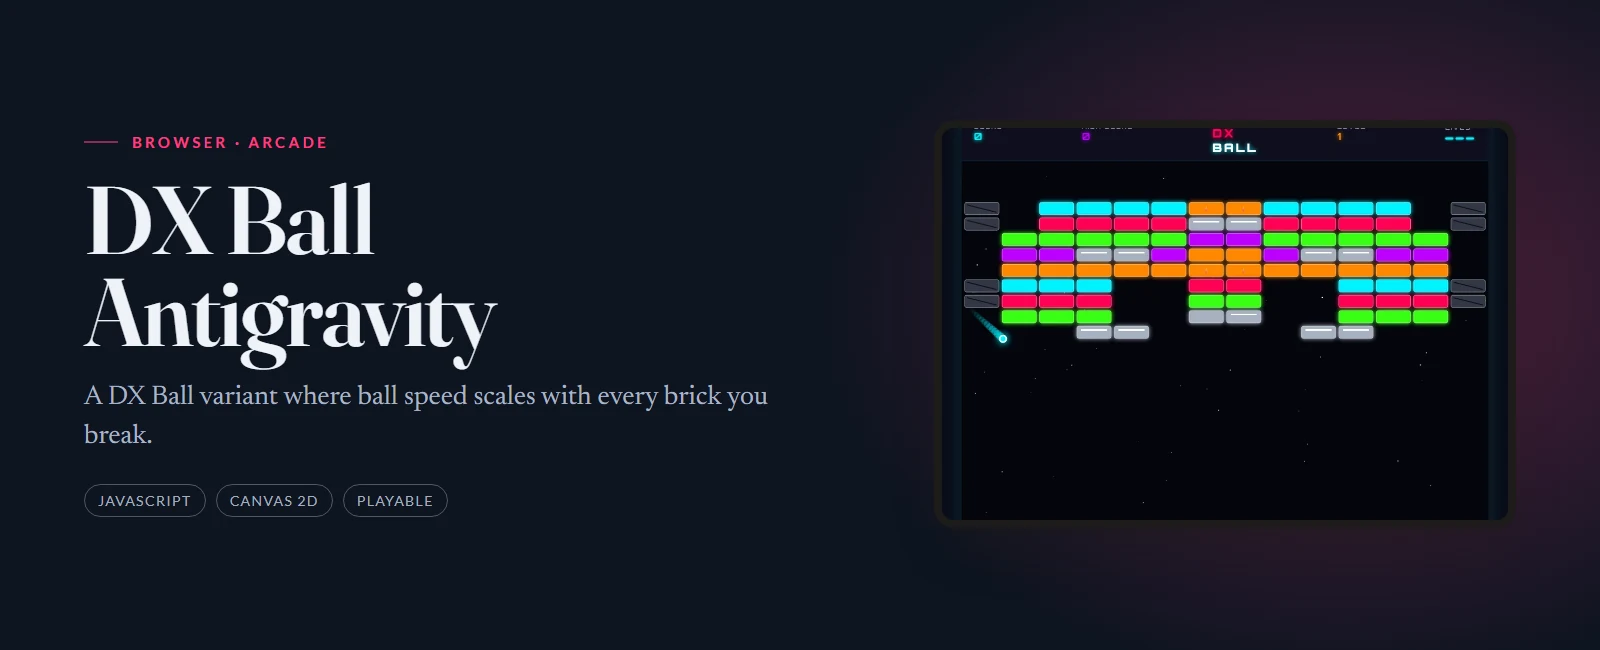
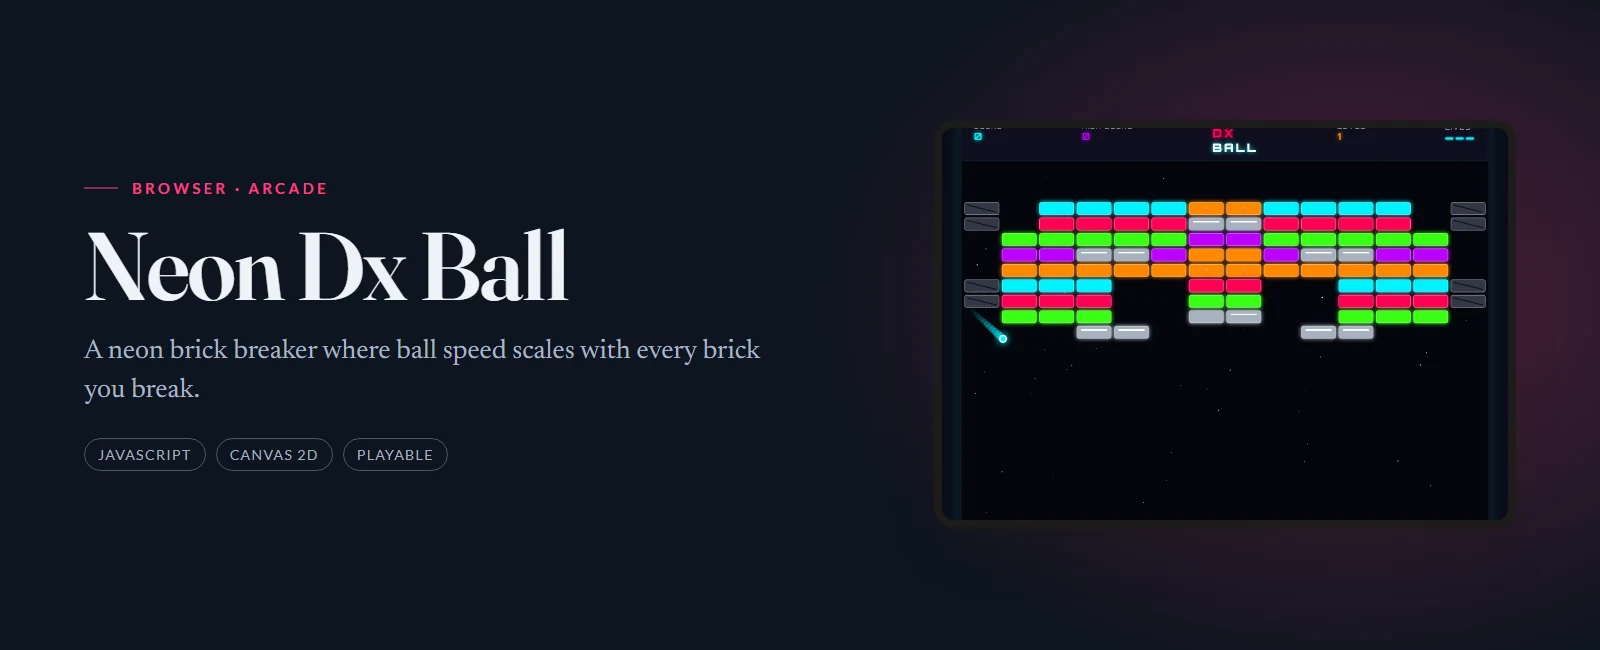
work: rename DX Ball to Neon Dx Ball, add Chorus and WattScope
Renamed DX Ball Antigravity to Neon Dx Ball everywhere including the baked cover art. Captured the real Chorus and WattScope desktop windows on this PC via PrintWindow and wired both into the covers, cards and galleries.

diff --git a/index.html b/index.html
@@ -231,9 +231,9 @@
 
   <a class="card-link" href="project.html?p=dx-ball-antigravity">
               <article class="card">
-                <div class="card-art" style="--tint:#ff3d81"><img src="img/dx-ball-antigravity/card.webp" alt="DX Ball Antigravity — mid-game" loading="lazy" /></div>
-                <h3>DX Ball Antigravity</h3>
-                <p class="card-desc">DX Ball variant with dynamic ball-speed scaling.</p>
+                <div class="card-art" style="--tint:#ff3d81"><img src="img/dx-ball-antigravity/card.webp" alt="Neon Dx Ball — mid-game" loading="lazy" /></div>
+                <h3>Neon Dx Ball</h3>
+                <p class="card-desc">Neon brick breaker with dynamic ball-speed scaling.</p>
                 <div class="meta"><span>Game</span><svg class="growth"><use href="#i-sprout"/></svg><span>2025</span></div>
               </article>
             </a>
@@ -259,7 +259,7 @@
 
   <a class="card-link" href="project.html?p=chorus">
               <article class="card">
-                <div class="card-art" style="--tint:#c98a2e"><span>CH</span></div>
+                <div class="card-art" style="--tint:#8b7cf6"><img src="img/chorus/card.webp" alt="Chorus" loading="lazy" /></div>
                 <h3>Chorus</h3>
                 <p class="card-desc">Pools RAM and VRAM across machines on a LAN to run one large model.</p>
                 <div class="meta"><span>AI</span><svg class="growth"><use href="#i-sprout"/></svg><span>2026</span></div>
@@ -295,7 +295,7 @@
 
   <a class="card-link" href="project.html?p=wattscope">
               <article class="card">
-                <div class="card-art" style="--tint:#c98a2e"><span>WS</span></div>
+                <div class="card-art" style="--tint:#2563eb"><img src="img/wattscope/card.webp" alt="Wattscope" loading="lazy" /></div>
                 <h3>WattScope</h3>
                 <p class="card-desc">Power-supply wattage calculator for PC builds.</p>
                 <div class="meta"><span>Desktop</span><svg class="growth"><use href="#i-sprout"/></svg><span>2025</span></div>

diff --git a/tools/art.html b/tools/art.html
@@ -222,8 +222,8 @@ const DATA = [
     card: 'img/neon-breaker/01-gameplay.webp' },
 
   { slug: 'dx-ball-antigravity', accent: '#ff3d81', ink: '#ff3d81', dark: true, frame: 'window',
-    kicker: 'Browser · Arcade', title: 'DX Ball<br>Antigravity',
-    sub: 'A DX Ball variant where ball speed scales with every brick you break.',
+    kicker: 'Browser · Arcade', title: 'Neon Dx Ball',
+    sub: 'A neon brick breaker where ball speed scales with every brick you break.',
     meta: ['JavaScript', 'Canvas 2D', 'Playable'],
     front: 'img/dx-ball-antigravity/01-gameplay.webp', back: null,
     card: 'img/dx-ball-antigravity/01-gameplay.webp' },
@@ -234,6 +234,20 @@ const DATA = [
     meta: ['HTML', 'Canvas 2D', 'Playable'],
     front: 'img/flappy-bird/01-gameplay.webp', back: null,
     card: 'img/flappy-bird/01-gameplay.webp' },
+
+  { slug: 'chorus', accent: '#8b7cf6', ink: '#8b7cf6', dark: true, frame: 'window',
+    kicker: 'Desktop · Distributed inference', title: 'Chorus',
+    sub: 'Pools RAM and VRAM across machines on a LAN to run one large model.',
+    meta: ['Tauri v2', 'Rust', 'Unreleased'],
+    front: 'img/chorus/01-dashboard.webp', back: null,
+    card: 'img/chorus/01-dashboard.webp' },
+
+  { slug: 'wattscope', accent: '#2563eb', ink: '#1d4ed8', dark: false, frame: 'window',
+    kicker: 'Desktop · Windows', title: 'WattScope',
+    sub: 'Power-supply wattage calculator for PC builds, with live wall-power estimates.',
+    meta: ['C#', '.NET', 'WPF'],
+    front: 'img/wattscope/01-dashboard.webp', back: null,
+    card: 'img/wattscope/01-dashboard.webp' },
 ];
 
 const qs = new URLSearchParams(location.search);

diff --git a/v2/index.html b/v2/index.html
@@ -395,12 +395,12 @@
           <span class="card-tags"><span>JavaScript</span><span>Canvas</span><span>Game</span></span>
         </a>
 
-        <a class="card" href="project.html?p=dx-ball-antigravity" data-platform="Game" data-name="DX Ball Antigravity JavaScript Canvas Game">
+        <a class="card" href="project.html?p=dx-ball-antigravity" data-platform="Game" data-name="Neon Dx Ball JavaScript Canvas Game">
           <span class="card-glow" aria-hidden="true"></span>
           <span class="card-mark" aria-hidden="true">DX</span>
           <span class="card-top"><span class="mono">020</span><span class="mono">Game</span></span>
           <span class="card-body">
-            <span class="card-title">DX Ball Antigravity</span>
+            <span class="card-title">Neon Dx Ball</span>
             <span class="card-desc">DX Ball variant with dynamic ball-speed scaling.</span>
           </span>
           <span class="card-tags"><span>JavaScript</span><span>Canvas</span><span>Game</span></span>

diff --git a/README.md b/README.md
@@ -110,21 +110,21 @@ Screenshots live in `img/<slug>/` and are referenced by relative path.
 |---|---|---|
 | `img/<slug>/cover.webp` | Project page hero | 1600 × 650 |
 | `img/<slug>/card.webp` | Home grid tile | 800 × 800, transparent |
-| `img/<slug>/NN-*.webp` | Project page gallery | 810 × 1818 (phone) |
+| `img/<slug>/NN-*.webp` | Project page gallery | 810 wide (phone), native for desktop |
 
-Images are WebP, not PNG — the 28 files came to 9.3 MB as PNG and 1.6 MB as
-WebP with no visible difference.
+Images are WebP, not PNG — the set was 9.3 MB as PNG and is under 3 MB as WebP
+with no visible difference.
 
-Fourteen of the 21 projects are Android. Nine of those have real screens
-captured from the Pixel 9a — Family Safety, Bloomly, ITN VPN, Meherpur Sheba,
-Tuee, AI Imam, My Masjid Adhan, Qibla Compass and PC Controller. The rest
-still render a generated initials tile; drop a `cover.webp` in `img/<slug>/`
-and add it to that project's `"cover"` field to replace it.
+Fourteen of the 21 projects have real screenshots: nine Android apps captured
+from the Pixel 9a, three browser games captured in headless Chrome, and two
+desktop apps captured on this PC. The rest still render a generated initials
+tile; drop a `cover.webp` in `img/<slug>/` and add it to that project's
+`"cover"` field to replace it.
 
-Three portfolio projects have no imagery because they aren't installable apps:
-Neon Breaker, DX Ball Antigravity and Flappy Bird are single-file HTML games.
-Portable AI Assistant, Calling Bell and Volume Control Pro are not installed
-on the device, so there was nothing to capture.
+Still without imagery: Portable AI Assistant, Calling Bell and Volume Control
+Pro (Android sources present but not installed on the device), LoadShedding
+Alert (needs its server running), and Automated Chatbot and ShortLoop (headless
+services — there is no UI to photograph).
 
 `card.webp` is transparent on purpose: the tile background comes from the
 `--tint` on the card, so it adapts to light and dark automatically.
